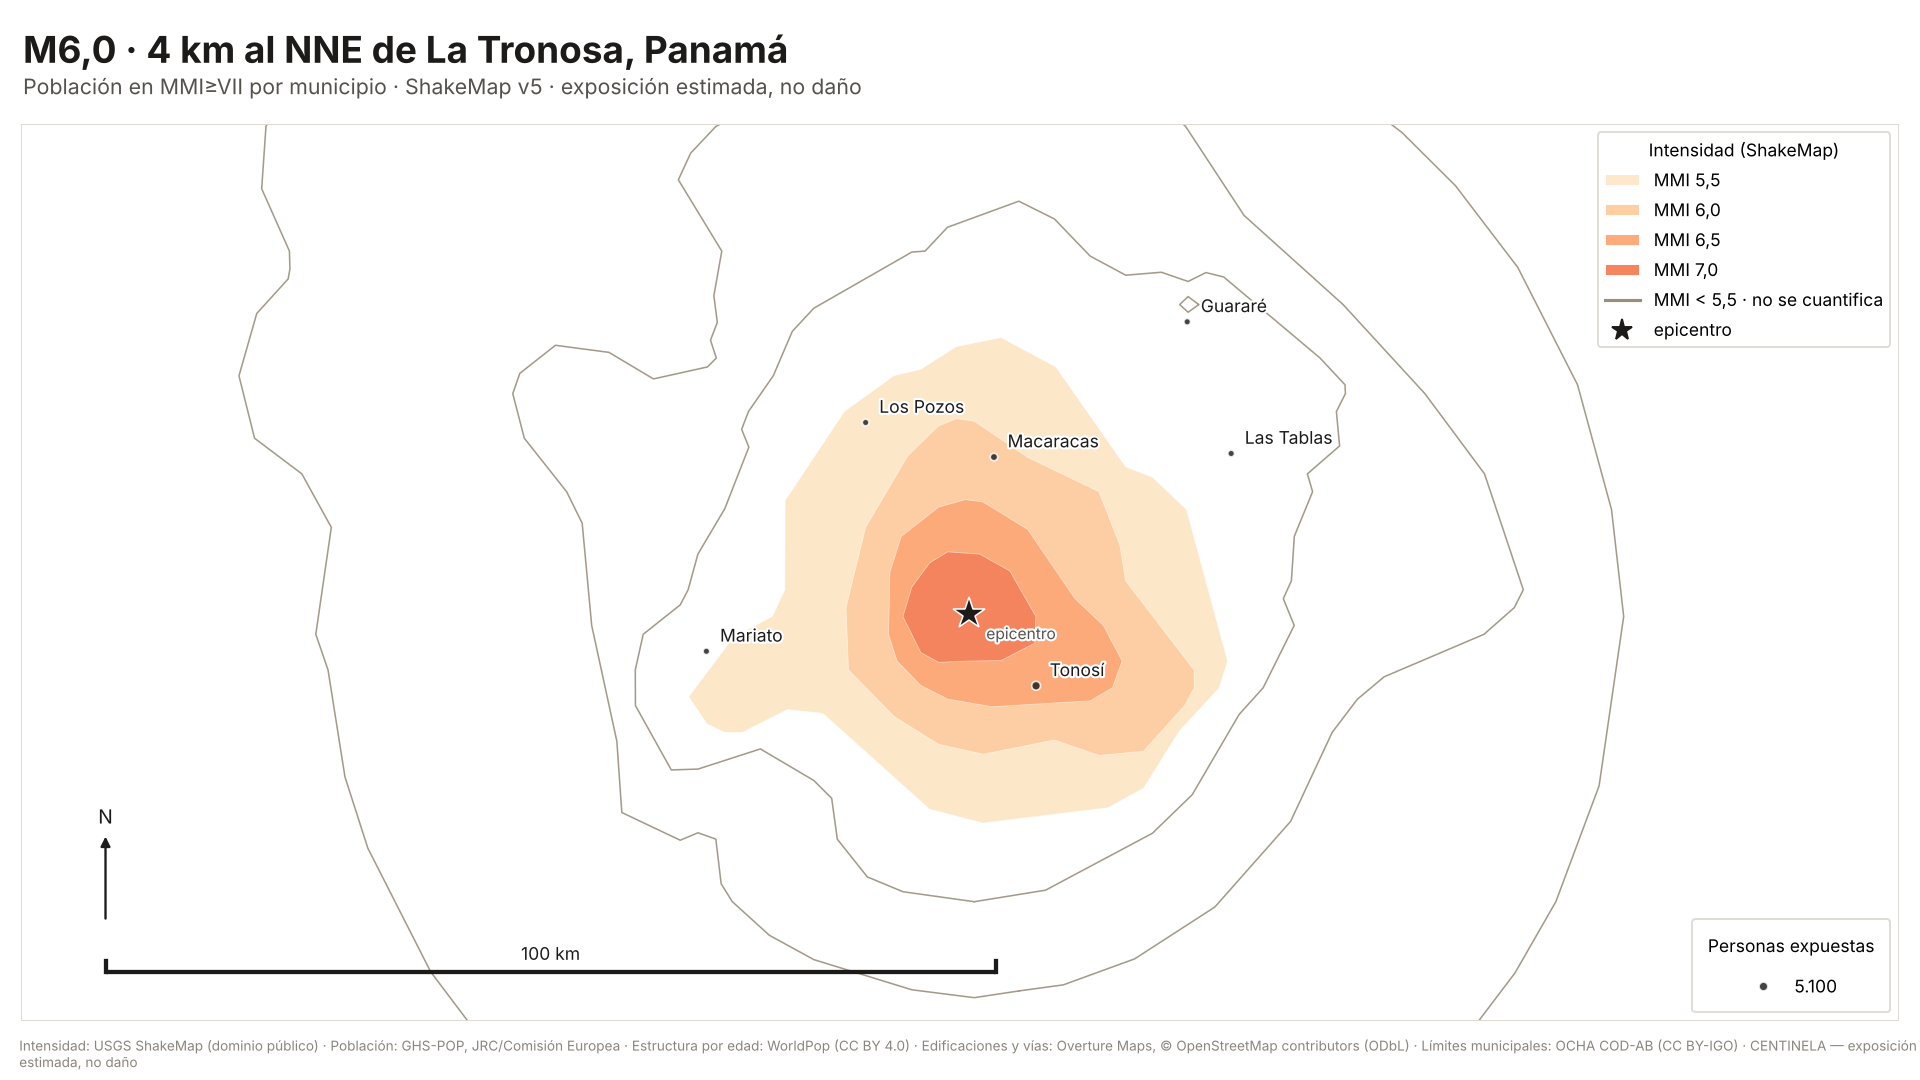
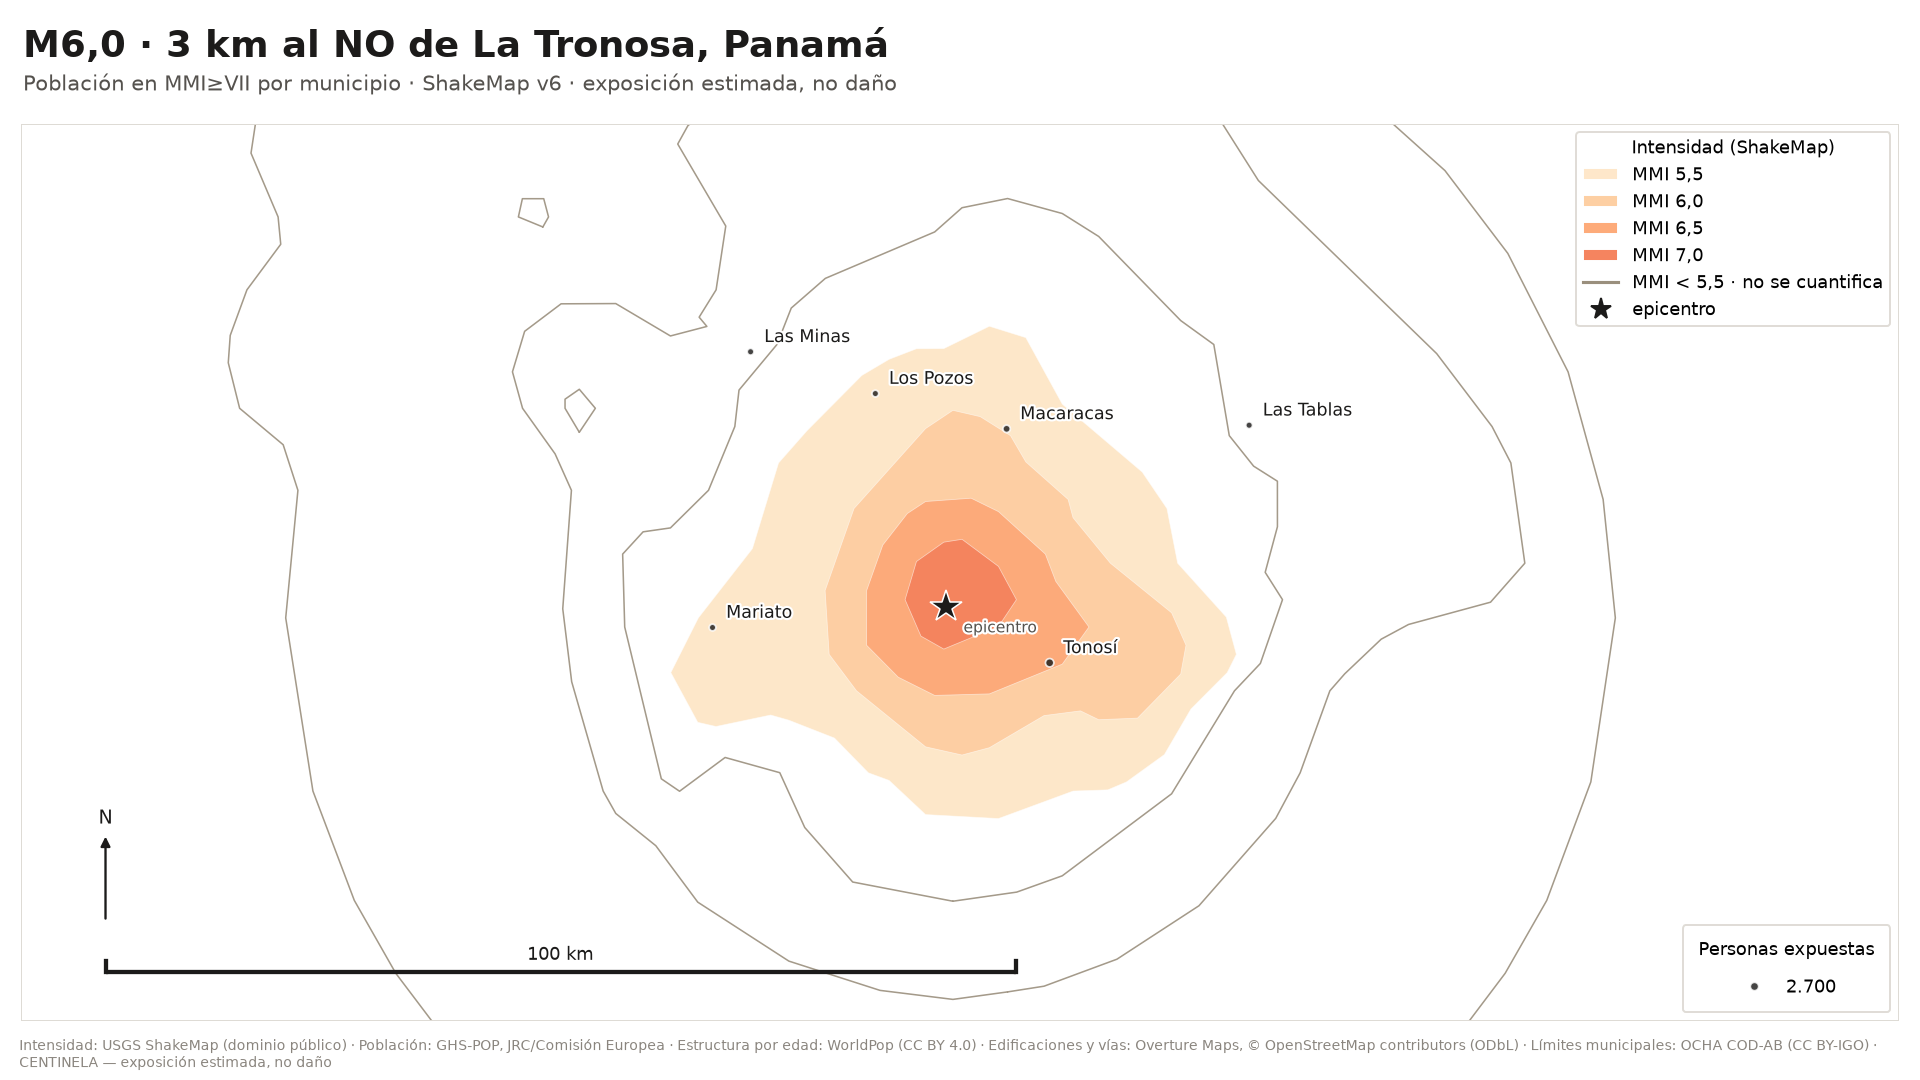
P3: reporte de us6000u1cf

diff --git a/reports/us6000u1cf/report.md b/reports/us6000u1cf/report.md
@@ -1,4 +1,4 @@
-# Exposición sísmica: M6,0 · 4 km al NNE de La Tronosa, Panamá
+# Exposición sísmica: M6,0 · 3 km al NO de La Tronosa, Panamá
 
 **Evento USGS:** `us6000u1cf` · **Origen:** 2026-10-10T04:14:01Z UTC · **Profundidad:** 10,0 km
 
@@ -6,33 +6,31 @@
 
 | Indicador | Estimado |
 |---|---:|
-| Población en MMI≥VI | 20 mil |
-| Población en MMI≥VII | 5.600 |
+| Población en MMI≥VI | 19 mil |
+| Población en MMI≥VII | 3.100 |
 | Población en MMI≥VIII | el evento no llegó a esta banda |
-| Edificaciones en MMI≥VII | 4.200 |
+| Edificaciones en MMI≥VII | 2.400 |
 | Sedes de salud en MMI≥VII | 0 |
-| Sedes educativas en MMI≥VII | 3 |
-| Vías primarias y secundarias en MMI≥VII | 40 km |
-| Vías locales en MMI≥VII | 210 km |
-| Superficie construida en MMI≥VII | 0,7 km² |
-
-El satélite detecta **1,7 veces** más superficie construida de la que explicarían las 4.200 edificaciones registradas en MMI≥VII. La diferencia suele ser asentamiento informal o zona rural dispersa sin mapear: **el conteo de edificaciones se queda corto ahí, y la superficie construida no**.
+| Sedes educativas en MMI≥VII | 2 |
+| Vías primarias y secundarias en MMI≥VII | 28 km |
+| Vías locales en MMI≥VII | 160 km |
+| Superficie construida en MMI≥VII | 0,3 km² |
 
 Las cifras de esta tabla van redondeadas a dos cifras significativas, que es la precisión que un modelo de exposición sostiene. Las exactas están en el CSV municipal y en `report.json`.
 
-De la población en intensidad MMI≥VII, alrededor de **1.000** personas tienen 65 años o más.
+De la población en intensidad MMI≥VII, alrededor de **600** personas tienen 65 años o más.
 
 ## Municipios más expuestos, por población en MMI≥VII
 
 | # | Municipio | Código | MMI max | Población MMI≥VII |
 |---:|---|---|---:|---:|
-| 1 | Tonosí | `PA0907` | 7,0 | 5.100 |
-| 2 | Macaracas | `PA0904` | 7,0 | 500 |
+| 1 | Tonosí | `PA0907` | 7,0 | 2.700 |
+| 2 | Macaracas | `PA0904` | 7,0 | 400 |
 
 ## Deslizamiento y licuefacción
 
 - **Deslizamiento.** Población en celdas de MMI≥VI donde el modelo espera ≥ 0,10 de probabilidad de deslizamiento según `jessee_2018_model.tif`: **0**. USGS declara para este evento alerta **amarilla**, con 5 expuestas. El cero de arriba no dice que no haya exposición: dice que ninguna celda llega al umbral.
-- **Licuefacción.** Población en celdas de MMI≥VI donde el modelo espera ≥ 0,10 de cobertura areal por licuefacción según `zhu_2017_general_model.tif`: **3.600**. USGS declara para este evento alerta **amarilla**, con 1.000 expuestas.
+- **Licuefacción.** Población en celdas de MMI≥VI donde el modelo espera ≥ 0,10 de cobertura areal por licuefacción según `zhu_2017_general_model.tif`: **3.900**. USGS declara para este evento alerta **amarilla**, con 1.000 expuestas.
 
 Las dos cifras se cuentan sobre las celdas del corte publicado (MMI≥VI). **No son las de USGS y no se pueden comparar de frente**: aquí se cuenta la población entera de toda celda por encima del umbral, y USGS pondera la población de cada celda por el valor de esa celda. Son dos preguntas distintas sobre el mismo ráster.
 
@@ -48,10 +46,18 @@ Las dos cifras usan **la misma convención**: las clases de intensidad del USGS 
 
 ## Incertidumbre y calidad
 
-Discrepancia entre GHS-POP y WorldPop en las bandas MMI publicadas: **9,4 %**.
+Discrepancia entre GHS-POP y WorldPop en las bandas MMI publicadas: **17,5 %**.
 
 ## Cambios frente a la versión anterior
 
+- ShakeMap: v5 (us) → v6 (us)
+- Epicentro: reubicado 4 km
+- Población en MMI≥VI: 20 mil → 19 mil
+- Población en MMI≥VII: 5.600 → 3.100
+- Población de 65 años o más en MMI≥VII: 1.000 → 600
+- Edificaciones en MMI≥VII: 4.200 → 2.400
+- Sedes educativas en MMI≥VII: 3 → 2
+- Población en cobertura areal alta por licuefacción: 3.600 → 3.900
 - Recálculo con el mismo ShakeMap v5 (us) (cambió el cálculo o el activo de exposición, no USGS)
 - Cambio de convención: las franjas son ahora las clases de intensidad del USGS (VI desde MMI 5,5, VII desde 6,5, VIII desde 7,5), no decimales literales (≥6,0 / ≥7,0 / ≥8,0). Las cifras cambian por la regla, no por los datos.
 - Población en MMI≥VI: 10 mil → 20 mil
@@ -90,10 +96,10 @@ Discrepancia entre GHS-POP y WorldPop en las bandas MMI publicadas: **9,4 %**.
 
 ## Procedencia
 
-- ShakeMap consumido: **v5** de `us`
+- ShakeMap consumido: **v6** de `us`
 - Ground Failure consumido: **v4** de `us`
 - Manifiesto de exposición: [`pan-v0.5`](https://github.com/sforero77/CENTINELA/blob/main/data/manifests/PAN.yaml)
-- Pipeline: `0.1.0` · Generado: 2026-11-21T16:28:36Z
+- Pipeline: `0.1.0` · Generado: 2026-11-22T13:34:01Z
 
 ## Advertencias
 
